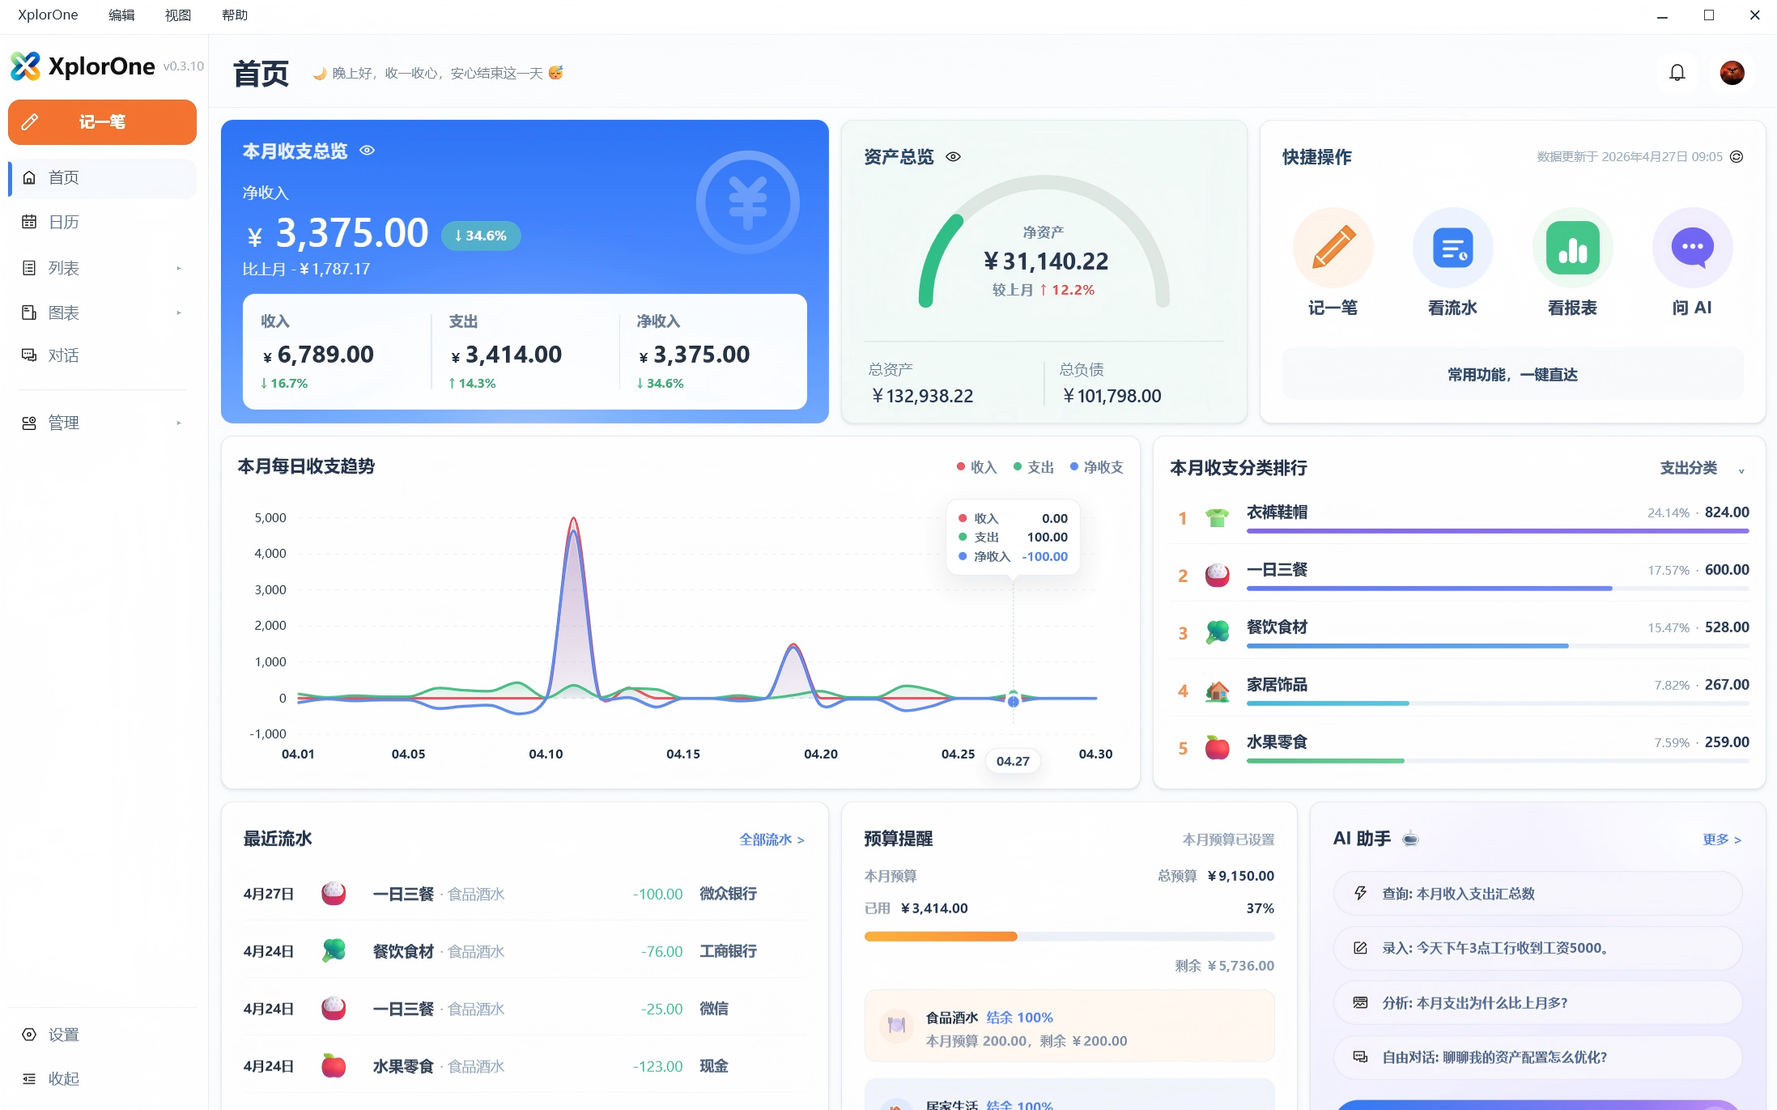
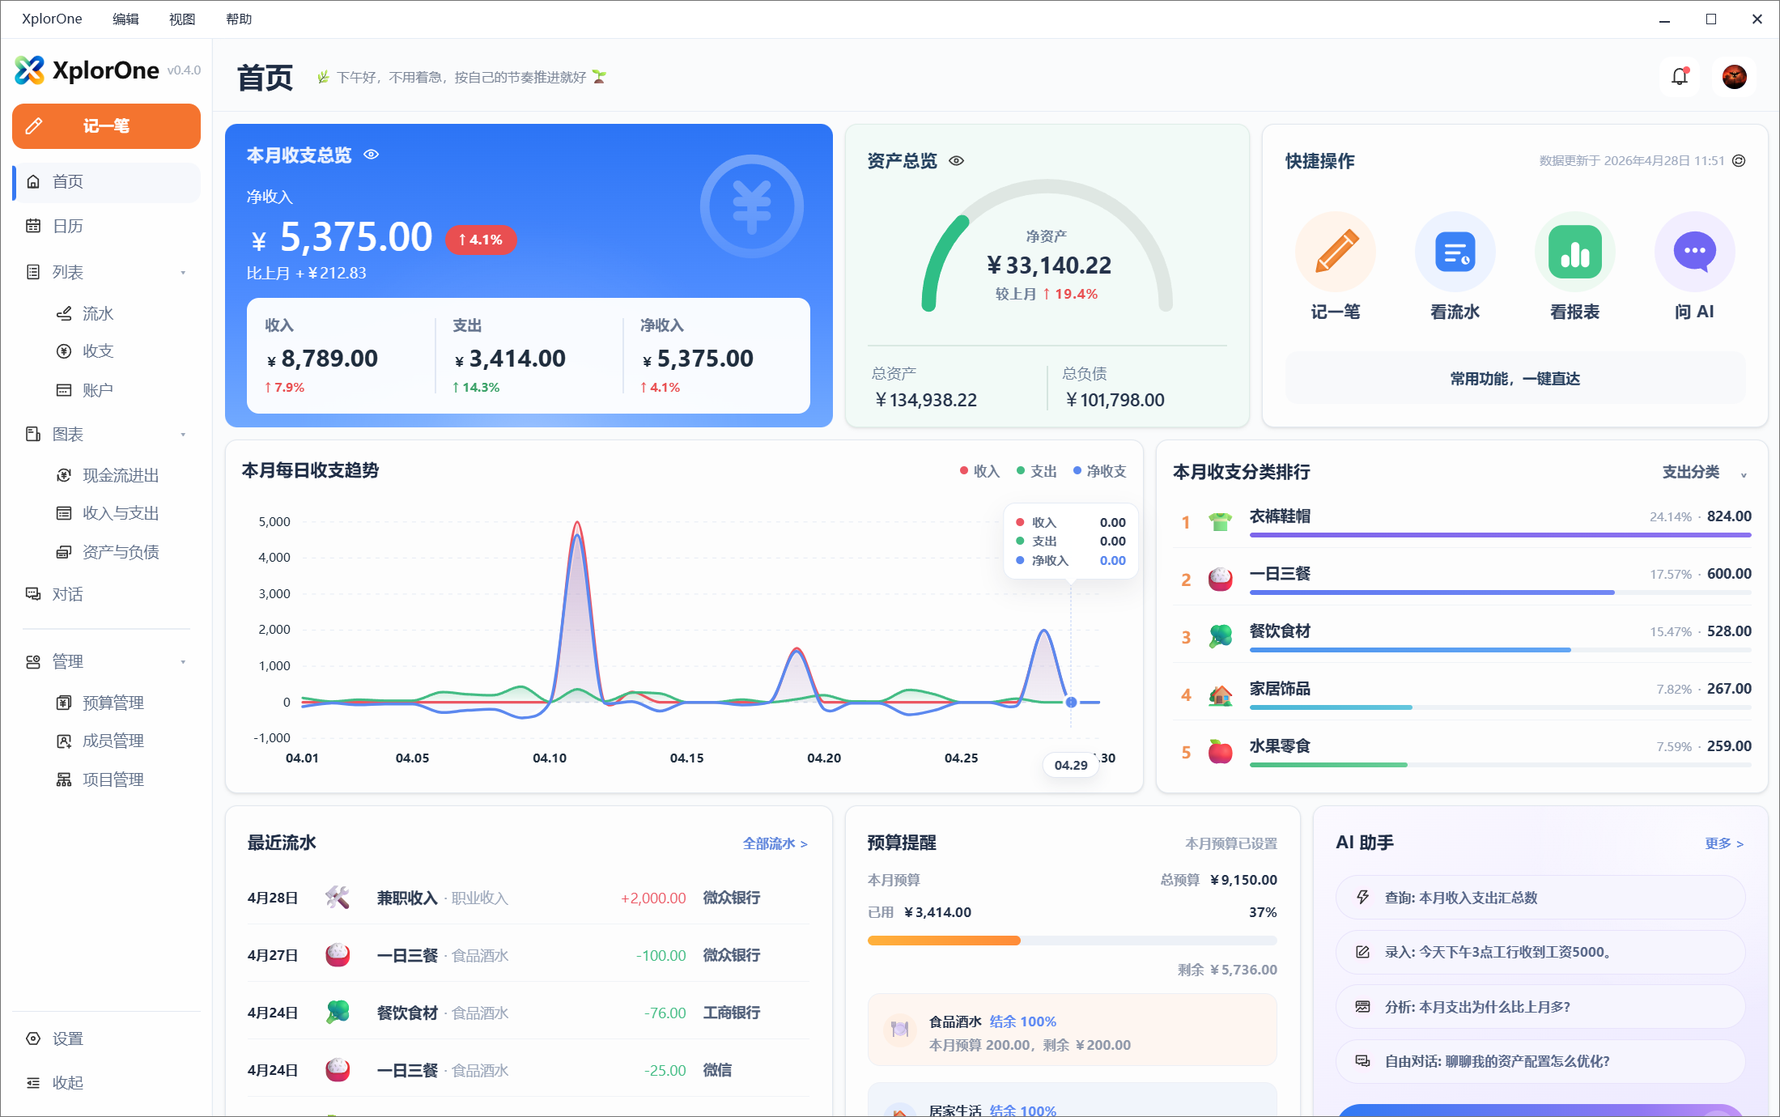
docs: sync XplorOne v0.4.1 release docs
Summary:

- update CHANGELOG with v0.4.1 as the latest release

- sync public docs with model presets, AI personalization language boundaries, professional chart localization, and desktop networking notes

- refresh English and Chinese product screenshots and add Chinese chat/main screenshot assets

diff --git a/CHANGELOG.md b/CHANGELOG.md
@@ -12,32 +12,44 @@ XplorOne is currently moving from an early local-first desktop finance workspace
 
 ## Latest Release
 
-### v0.4.0 - 2026-04-28
+### v0.4.1 - 2026-04-30
 
-**Focus: clearer Local Assistant and AI Assistant boundaries**
+**Focus: workspace polish after the two-assistant redesign**
 
-This release reorganizes chat into two clearer assistants: Local Assistant for fast local queries and entries, and AI Assistant for deeper analysis and open-ended conversation. It also tightens the local query boundary so basic finance queries no longer fall back to AI guessing, improves chat session routing and assistant switching, and strengthens bilingual display for account and category names.
+This release polishes XplorOne after the Local Assistant and AI Assistant redesign. It improves professional-chart localization, makes AI personalization language-specific, strengthens Analysis and FreeChat agent boundaries, refines model-service presets and desktop networking, and fixes reminder lifecycle details so dismissed reminders stay quiet until a new cycle is meaningful.
 
 #### Highlights
 
-- Added Local Assistant and AI Assistant as top-level chat modes with separate session pools, assistant avatars, and mode-specific quick scenarios.
-- Added a new assistant selection landing state for new conversations, plus an explicit switch action in the chat sidebar.
-- Added `chat:local` and `chat:ai` session scopes while keeping older chat scopes display-compatible.
-- Changed Local Query into a purely local query kernel that can answer by rule, ask for clarification, or return an unsupported boundary response instead of falling back to AI intent guessing.
-- Split assistant capabilities so Local Assistant exposes Query and Entry, while AI Assistant exposes Analysis and Free Chat.
-- Improved chat markdown rendering, including table display in AI-generated analysis answers.
-- Improved Chinese and English display consistency for categories and accounts in chat answers, draft-entry tables, and analysis contexts.
-- Fixed new-chat routing issues, accidental deletion of the top hint, web-preview abort errors, truncated AI answers, and ambiguous Alipay balance handling.
+- Added a top-bar theme switch entry for Light, Dark, and Follow System modes.
+- Added OpenAI and Google Gemini presets to the model-service preset list.
+- Added bilingual professional-chart text helpers for titles, scopes, periods, amounts, percentages, axis units, empty states, and fallback names.
+- Added localized NSIS installer copy for the optional XplorOne skills page.
+- Changed AI personalization summaries to follow the current response language, so Chinese and English conversations receive language-appropriate preference context.
+- Strengthened Analysis mode and FreeChat with richer XplorOne-specific agent profiles, clearer data boundaries, financial-risk limits, and response discipline.
+- Improved desktop model requests by honoring the system proxy before using Electron networking.
+- Improved chat titles, assistant-message tool timestamps, English query answer wording, split-transaction export text, and professional-chart localization.
+- Fixed dismissed inactivity and stale-backup reminders being regenerated too eagerly within the same logical cycle.
+- Fixed remaining Chinese-only professional-chart labels in English UI.
 
 #### Security and stability
 
-- Added more consistent debug and audit fields for chat routing, including top mode, internal capability, route reason, query basis, data basis, and model usage.
-- Reduced accidental model calls by enforcing that Local Assistant query and entry flows do not silently invoke AI.
-- Maintained clear write boundaries: AI can assist with interpretation and analysis, while write-related flows still require user confirmation.
+- Kept AI personalization injection as a controlled natural-language summary instead of raw settings JSON.
+- Reduced model hallucination risk by instructing Analysis and FreeChat not to claim database writes, navigation, exports, deletions, or edits that did not occur.
+- Preserved clearer notification lifecycle behavior by filtering dismissed reminders out of the active notification list until a meaningful new cycle exists.
 
 ---
 
 ## Recent Releases
+
+### v0.4.0 - 2026-04-28
+
+**Focus: clearer Local Assistant and AI Assistant boundaries**
+
+- Added Local Assistant and AI Assistant as top-level chat modes with separate session pools, assistant avatars, and mode-specific quick scenarios.
+- Changed Local Query into a local query kernel that can answer by rule, ask for clarification, or return an unsupported boundary response instead of falling back to AI intent guessing.
+- Split assistant capabilities so Local Assistant exposes Query and Entry, while AI Assistant exposes Analysis and Free Chat.
+- Improved chat markdown rendering, table display, session routing, assistant switching, and bilingual account/category display.
+- Reduced accidental model calls by enforcing that Local Assistant query and entry flows do not silently invoke AI.
 
 ### v0.3.10 - 2026-04-27
 
@@ -109,13 +121,17 @@ This release reorganizes chat into two clearer assistants: Local Assistant for f
 
 ## 0.4 Series Highlights
 
-The 0.4 series begins by making XplorOne's chat model easier to understand: Local Assistant handles fast local query and entry workflows, while AI Assistant handles deeper analysis and broader conversation.
+The 0.4 series makes XplorOne's assistant model and desktop polish easier to trust: Local Assistant handles fast local query and entry workflows, while AI Assistant handles deeper analysis and broader conversation with clearer boundaries.
 
 - Split chat into clearer Local Assistant and AI Assistant experiences.
 - Tightened local query behavior so supported local finance queries do not silently fall back to AI guessing.
 - Improved chat session routing, assistant switching, and new-conversation landing behavior.
-- Improved bilingual account and category display in chat answers, draft-entry tables, and analysis contexts.
-- Reduced accidental model calls by enforcing clearer Local Assistant boundaries.
+- Improved bilingual account, category, query-answer, and professional-chart display.
+- Added theme switching and clearer model-service presets.
+- Made AI personalization language-specific and kept it as a controlled natural-language summary.
+- Strengthened Analysis and FreeChat agent boundaries around data access, financial-risk limits, and claimed actions.
+- Improved desktop model requests by honoring the system proxy.
+- Reduced accidental model calls and unsupported action claims by enforcing clearer assistant boundaries.
 
 ---
 

diff --git a/docs/software-release-history.md b/docs/software-release-history.md
@@ -1,7 +1,51 @@
+English | [简体中文](./software-release-history_zh-CN.md)
+
 # XplorOne Software Release History
 
 This page records user-facing XplorOne release notes.  
 It is based on the existing project changelog and rewritten in the newer public release-note format for GitHub, website, and marketing use.
+
+---
+
+# XplorOne v0.4.1
+
+Release date: 2026-04-30
+
+This release polishes the XplorOne workspace after the two-assistant chat redesign. It improves professional chart localization, makes AI personalization language-specific, strengthens the Analysis and FreeChat agent identities, refines model-service presets and desktop networking, and fixes notification lifecycle details so dismissed reminders stay quiet until a new cycle is meaningful.
+
+## Added
+
+- Added a top-bar theme switch entry for Light, Dark, and Follow System modes.
+- Added OpenAI and Google Gemini presets to the model-service preset list.
+- Added bilingual professional-chart text helpers for chart titles, scopes, periods, amounts, percentages, axis units, empty states, and fallback names.
+- Added localized NSIS installer copy for the optional XplorOne skills page.
+
+## Changed
+
+- AI personalization summaries now follow the current response language, so Chinese conversations receive Chinese preference context and English conversations receive English preference context without sending both.
+- Analysis mode and FreeChat now use richer XplorOne-specific agent profiles with clearer data boundaries, financial-risk limits, and response discipline.
+- Model Settings now keeps custom draft endpoint details separate from the currently enabled model state.
+- The default UI fallback for non-Chinese systems is now English.
+- Legal packaging now uses the root `LICENSE` file path expected by release resources.
+
+## Improved
+
+- Improved professional chart localization across treemap, sunburst, heatmap, waterfall, dual-axis, and stacked chart views.
+- Improved English query answer wording for summaries, balances, transaction lists, and category totals.
+- Improved chat conversation titles and assistant-message tool timestamps.
+- Improved desktop model requests by honoring the system proxy before using Electron networking.
+- Improved split-transaction export and UI wording around allocation details.
+
+## Fixed
+
+- Fixed dismissed inactivity and stale-backup reminders being regenerated too eagerly within the same logical cycle.
+- Fixed dismissed notification filtering so only active unread/read items appear in the notification list.
+- Fixed several remaining Chinese-only professional-chart labels in English UI.
+
+## Security & Stability
+
+- Kept AI personalization injection as a controlled natural-language summary instead of raw settings JSON.
+- Reduced model hallucination risk by telling Analysis and FreeChat not to claim database writes, navigation, exports, deletions, or edits that did not occur.
 
 ---
 

diff --git a/docs/software-release-history_zh-CN.md b/docs/software-release-history_zh-CN.md
@@ -1,7 +1,51 @@
+[English](./software-release-history.md) | 简体中文
+
 # XplorOne 软件发布历史
 
 本页面用于记录 XplorOne 面向用户的版本更新。  
 内容基于项目现有版本说明整理，并按新的发布模板重写为更适合官网、GitHub 与发布页展示的格式。
+
+---
+
+# XplorOne v0.4.1
+
+发布日期：2026-04-30
+
+本次更新是在“双助手”对话体系完成后的工作台细节收口：继续补齐专业图表中英文展示、AI 个性化摘要的单语注入、分析与自由对话的专业 Agent 身份层，同时优化模型服务预设、桌面网络请求和提醒生命周期，让已忽略的提醒不会在同一周期内反复出现。
+
+## Added 新增
+
+- 新增顶部亮色、暗色、跟随系统主题切换入口。
+- 新增 OpenAI 与 Google Gemini 模型服务预设。
+- 新增专业图表中英文展示辅助层，覆盖图表标题、类别范围、时间周期、金额、比例、轴单位、空状态和 fallback 名称。
+- 新增 NSIS 安装器中可选 XplorOne Skills 页的中英文文案。
+
+## Changed 变更
+
+- AI 个性化摘要现在按当前回答语言生成，中文对话只注入中文偏好摘要，英文对话只注入英文偏好摘要，不再同时发送双语内容。
+- 分析模式与自由对话升级为更完整的 XplorOne Agent 身份提示词，明确数据依据、财务风险边界和回答纪律。
+- 模型设置现在会单独保留自定义模型草稿的接口、模型名和 key 状态，避免和当前启用模型混在一起。
+- 非中文系统的默认界面语言 fallback 调整为英文。
+- 发布资源中的法律文件路径收口为根目录 `LICENSE`。
+
+## Improved 优化
+
+- 优化专业图表的英文展示，覆盖树状图、旭日图、热点图、瀑布图、双轴图和堆叠图等视图。
+- 优化英文查询回答措辞，包括汇总、余额、流水列表和分类金额。
+- 优化对话会话标题和 assistant 消息下方的时间展示。
+- 优化 Electron 桌面模型请求链路，在使用桌面网络能力前先应用系统代理。
+- 优化拆分流水导出和 allocation 明细相关文案。
+
+## Fixed 修复
+
+- 修复已忽略的长时间未记账提醒、完整备份提醒在同一逻辑周期内过早重新生成的问题。
+- 修复提醒列表过滤逻辑，确保只展示仍处于未读 / 已读状态的有效提醒。
+- 修复英文界面下专业图表仍残留中文图表标签的问题。
+
+## Security & Stability 安全与稳定性
+
+- AI 个性化设置继续以受控自然语言摘要注入，不直接把原始 JSON 发给模型。
+- 降低模型幻觉执行动作的风险，分析与自由对话会明确禁止声称已执行实际未发生的写库、跳转、导出、删除或修改。
 
 ---
 

diff --git a/docs/faq.md b/docs/faq.md
@@ -113,9 +113,11 @@ Depending on the workflow, this may include:
 - selected report or query context
 - entry draft context
 - recent conversation context
-- AI personalization summary, only if enabled by the user
+- language-specific AI personalization summary, only if enabled by the user
 
 XplorOne aims to send task-relevant context, not the entire local database by default.
+
+When AI personalization is enabled, XplorOne is designed to send a controlled natural-language summary rather than raw settings JSON.
 
 Users should choose a model provider they trust and review that provider’s own data and privacy terms.
 
@@ -137,6 +139,8 @@ In XplorOne, it means you can connect the app to a model service using your own 
 
 BYOK does not mean XplorOne requires AI to be useful.
 It only means optional AI-assisted workflows can use the model provider you configure.
+
+The app may provide presets for common providers such as OpenAI and Google Gemini, while still allowing custom OpenAI-compatible model-service configuration where supported.
 
 For setup details, see [BYOK Setup](./byok-setup.md).
 
@@ -313,6 +317,8 @@ When reporting a language issue, include:
 
 XplorOne may consider the current message language, previous clear user language in the session, and UI language as fallback.
 
+If AI personalization is enabled, personalization context is also intended to follow the current response language.
+
 ## 28. What should I do if model connection testing fails?
 
 Check:
@@ -323,6 +329,7 @@ Check:
 - whether the provider account has enough credits or quota
 - whether the provider requires a special endpoint format
 - whether your network connection is available
+- whether your system proxy or network environment is blocking the request
 
 For more details, see [BYOK Setup](./byok-setup.md).
 

diff --git a/README.md b/README.md
@@ -6,7 +6,7 @@ English | [简体中文](./README_zh-CN.md)
 
 XplorOne helps freelancers, one-person businesses, consultants, indie makers, and small studios understand income, expenses, cash flow, budgets, accounts, and financial patterns — without starting from a cloud-first workflow.
 
-**Current status:** Windows release available · Core local bookkeeping, reports, and basic queries work without an API key · Your own API key is only needed for AI-assisted features · Write actions require confirmation · Local API and MCP integrations are token-protected local access paths · This repository is the public product hub for releases, documentation, and community feedback, not a full open-source code landing page.
+**Current status:** Windows release available · Core local bookkeeping, reports, and basic queries work without an API key · BYOK: core local workflows work without an API key; AI Assistant features require a user-configured model API key · Write actions require confirmation · Local API and MCP integrations are token-protected local access paths · This repository is the public product hub for releases, documentation, and community feedback, not a full open-source code landing page.
 
 [Download on GitHub Releases](https://github.com/SimonZhangM/XplorOne/releases) · [Getting Started](./docs/getting-started.md) · [WAIC Project Plan](./docs/waic/XplorOne-WAIC-FutureTech-OPC-Project-Plan.pdf) · [Discussions](https://github.com/SimonZhangM/XplorOne/discussions)
 

diff --git a/README_zh-CN.md b/README_zh-CN.md
@@ -6,7 +6,7 @@
 
 XplorOne 帮助自由职业者、一人公司经营者、顾问、独立开发者、小型工作室主理人更清楚地看懂收入、支出、现金流、预算、账户结构和财务变化，而不是把整个财务工作流建立在一个云端优先的系统之上。
 
-**当前状态：** Windows 版本已可下载 · 即使没有 API Key，你也可以完成本地记账、查看财务报表和基础查询 · 自备 API Key 仅用于启用 AI 辅助能力 · 涉及写入的操作必须用户确认 · 本地 API 与 MCP 集成属于 token 保护的本地访问路径 · 本仓库用于版本发布、文档说明与社区反馈，并非完整开源代码仓库首页。
+**当前状态：** Windows 版本已可下载 · 即使没有 API Key，你也可以完成本地记账、查看财务报表和基础查询 · BYOK：核心本地功能无需 API Key；AI 助手能力需要用户自行配置模型 API Key · 涉及写入的操作必须用户确认 · 本地 API 与 MCP 集成属于 token 保护的本地访问路径 · 本仓库用于版本发布、文档说明与社区反馈，并非完整开源代码仓库首页。
 
 [下载 Windows 版本](https://github.com/SimonZhangM/XplorOne/releases) · [快速开始](./docs/getting-started_zh-CN.md) · [WAIC 项目计划书](./docs/waic/XplorOne-WAIC-FutureTech-OPC-Project-Plan.pdf) · [讨论与反馈](https://github.com/SimonZhangM/XplorOne/discussions)
 

diff --git a/docs/privacy-and-ai-boundaries.md b/docs/privacy-and-ai-boundaries.md
@@ -115,9 +115,11 @@ Depending on the workflow, this may include:
 - selected report or query context
 - entry draft context
 - recent conversation context
-- AI personalization summary, only if the user has enabled AI personalization
+- language-specific AI personalization summary, only if the user has enabled AI personalization
 
 XplorOne aims to send task-relevant context, not the entire local database by default.
+
+When AI personalization is enabled, XplorOne is intended to send a controlled natural-language summary rather than raw settings JSON, and that summary should follow the current response language.
 
 Users should choose a model provider they trust and review that provider’s own data and privacy terms.
 
@@ -147,12 +149,16 @@ AI Assistant analysis may use structured financial context to generate explanati
 
 This is intended to help users understand their financial data, not to replace user judgment.
 
+Analysis is guided to avoid claiming writes, navigation, exports, deletions, or edits that did not actually occur.
+
 ### AI Assistant free chat
 
 AI Assistant free chat is for broader finance-related conversations.
 
 It is not the same as direct ledger query.
 In the current release line, free chat is not positioned as the default path for direct ledger access.
+
+Free chat is also guided by explicit financial-risk and data-boundary instructions.
 
 ## 8. AI Write Boundary
 

diff --git a/docs/byok-setup.md b/docs/byok-setup.md
@@ -45,7 +45,7 @@ Before configuring a model service, prepare:
 - model name
 - API key
 
-XplorOne is designed around OpenAI-compatible model-service configuration patterns.
+XplorOne is designed around OpenAI-compatible model-service configuration patterns and may provide built-in presets for common providers such as OpenAI and Google Gemini.
 
 Different providers may use different:
 
@@ -54,6 +54,7 @@ Different providers may use different:
 - rate limits
 - billing rules
 - response behavior
+- proxy or network requirements
 
 Please check your model provider’s own documentation if you are unsure about the correct base URL or model name.
 
@@ -173,6 +174,7 @@ Check:
 - whether the provider account has enough credits or quota
 - whether the provider requires a special endpoint format
 - whether the network connection is available
+- whether your system proxy or network environment allows the request
 
 ### AI features still do not work after saving
 
@@ -200,6 +202,7 @@ XplorOne may consider:
 - your current message language
 - previous clear user language in the same session
 - UI language as fallback
+- language-specific AI personalization context, if personalization is enabled
 
 If language behavior looks wrong, include the input language, UI language, provider, and expected response language when reporting the issue.
 

diff --git a/docs/known-limitations.md b/docs/known-limitations.md
@@ -163,9 +163,10 @@ XplorOne supports Chinese and English UI work, and bilingual AI behavior is bein
 Current boundaries may include:
 
 - some backend error messages may not be fully localized
-- some advanced chart labels or technical messages may still need refinement
+- some advanced chart labels or technical messages may still need refinement, even though professional-chart localization has improved
 - model-generated responses may vary by model provider
 - English and Chinese natural-language understanding may not be equally complete across all workflows
+- AI personalization context should follow the current response language when enabled, but provider output may still vary
 
 If you encounter a language issue, please report it with:
 
@@ -188,6 +189,8 @@ Current report areas may include:
 - selected charts and trend views
 
 Advanced chart availability or visibility may vary by release channel, product tier, or current product navigation.
+
+Professional-chart localization has improved, but reports and chart labels should still be evaluated within the current release scope.
 
 XplorOne should not be described as a complete enterprise BI suite.
 
